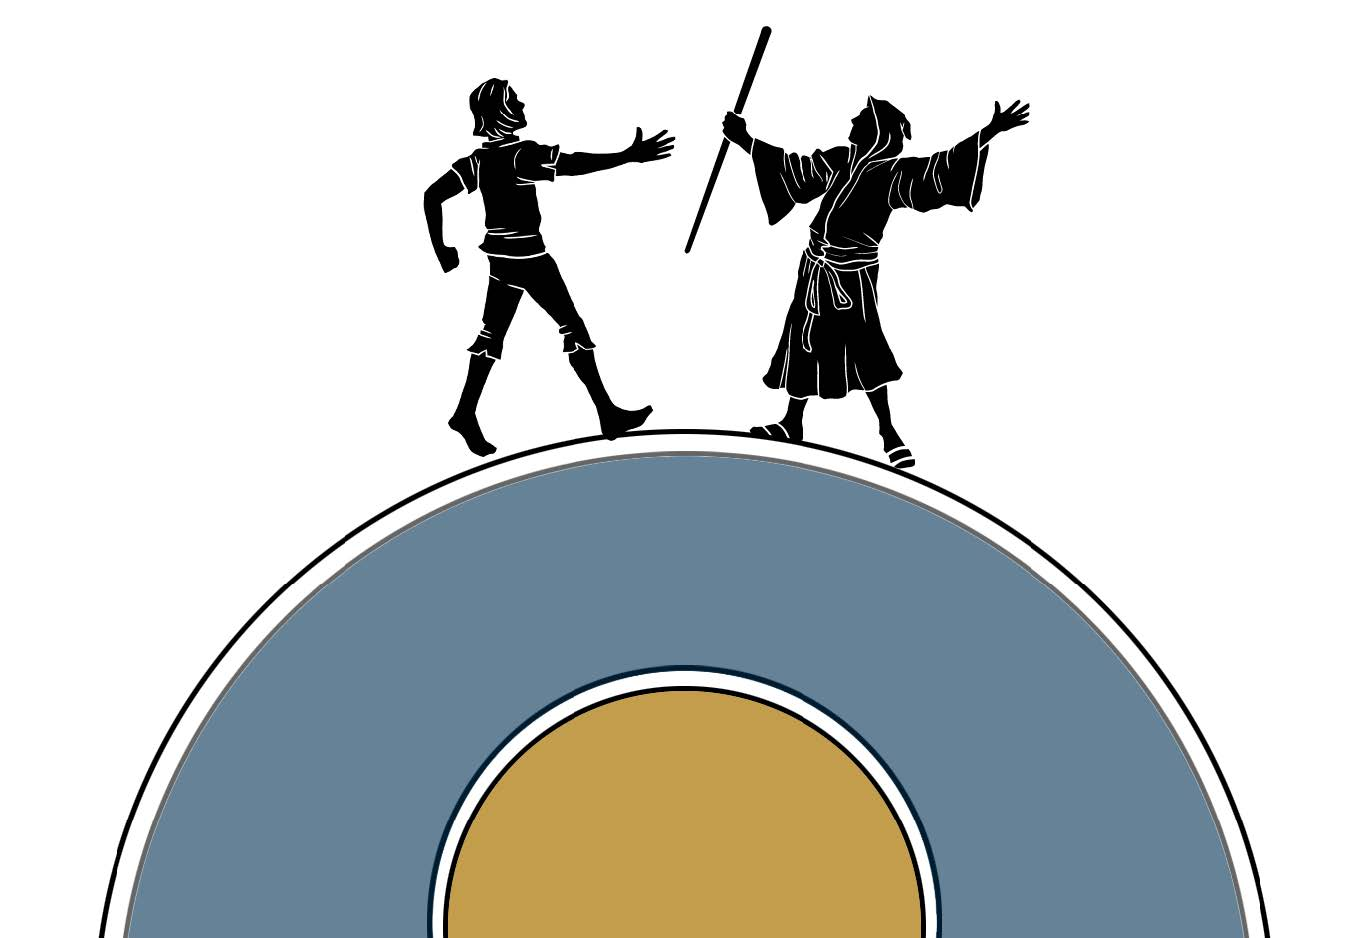
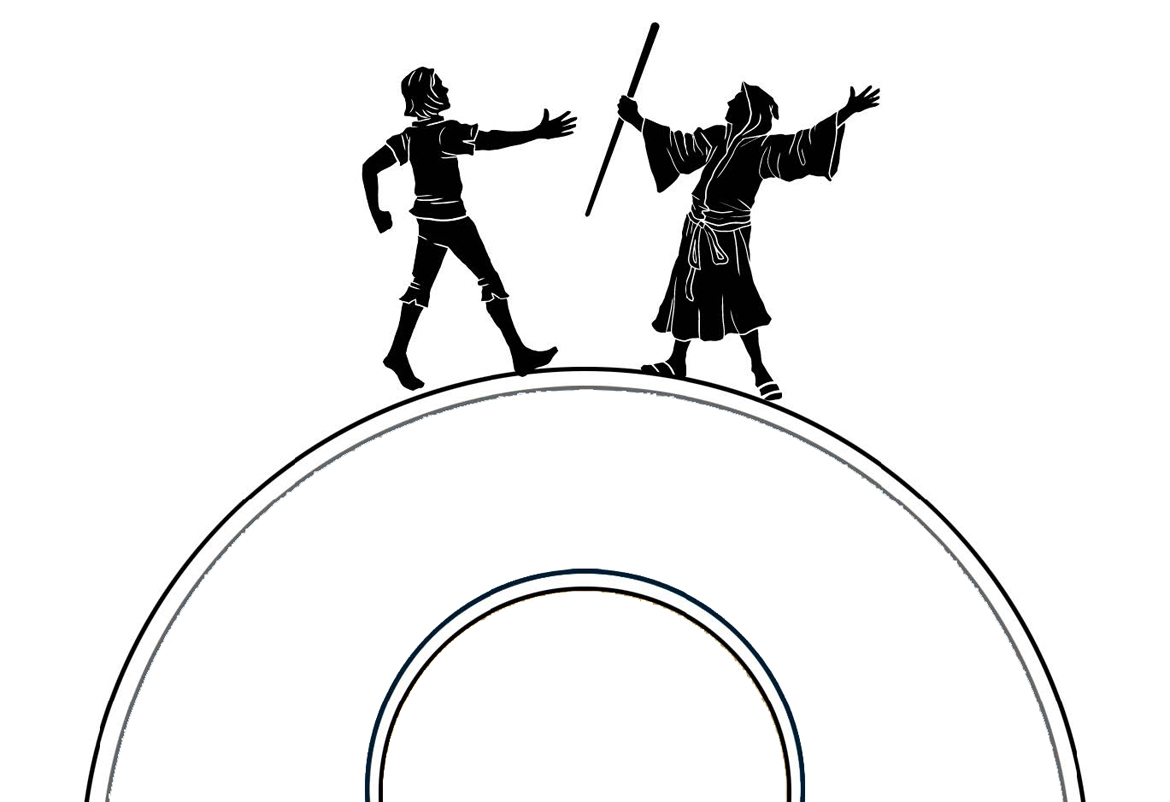
messing with story arc image

diff --git a/index.html b/index.html
@@ -93,9 +93,9 @@ to life in how the world experiences our words, our deeds and our brand over tim
   <!--/container-->
 </section>
 
-<section class="container-fluid" id="section2">
+<section class="container-fluid storyarc" id="section2">
   <div class="row">
-  	<div class="col-sm-8 col-sm-offset-2 text-center storyarc">
+  	<div class="col-sm-8 col-sm-offset-2 text-center">
         <h1>Our Internal Brand</h1>
         <h3 class="v-center">Read and absorb. You won’t find action items here, just the deep thinking behind our story-based brand.</h3>
        
